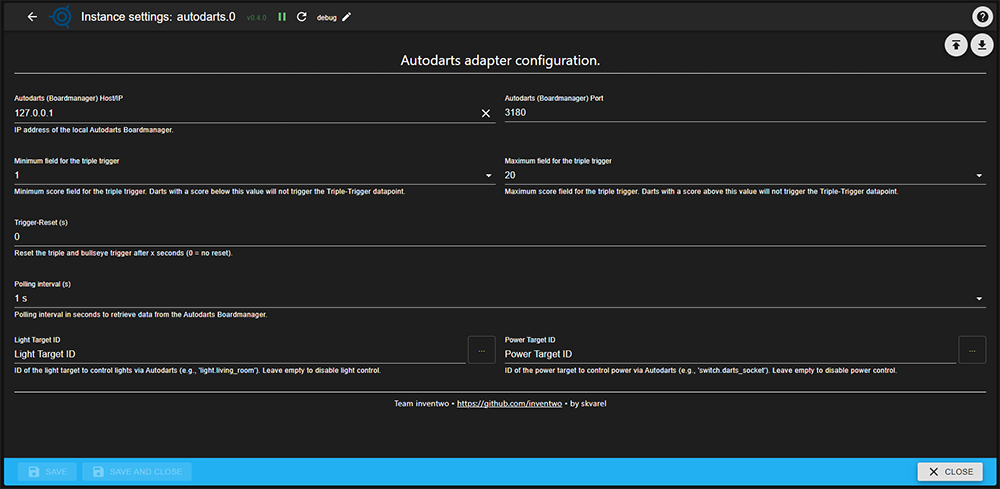
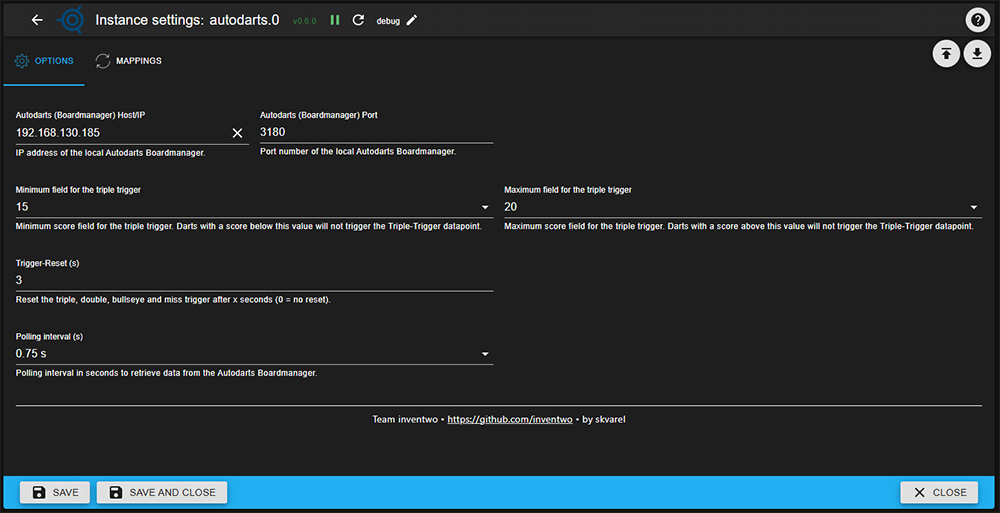
new config

diff --git a/README.md b/README.md
@@ -28,7 +28,7 @@ Connects to your local Autodarts Board Manager (via IP and port, e.g. `192.168.x
 - **`throw.isTriple`**: Boolean flag for triple hits within configurable segment range (default: 1–20)
 - **`throw.isDouble`**: Boolean flag for double hits only (all segments)
 - **`throw.isBullseye`**: Boolean flag for bullseye hits only
-- **`throw.isMiss`**: Boolean flag that is true when the dart does not hit any valid scoring segment (no score / miss only)
+- **`throw.isMiss`**: Boolean flag that is true when the dart does not hit any valid scoring segment (pure miss, no score)
 
 ### Board Status
 - **`status.trafficLightColor`**: HEX color of current board status
@@ -48,7 +48,7 @@ Connects to your local Autodarts Board Manager (via IP and port, e.g. `192.168.x
 
 ### Runtime Configuration
 - **`config.tripleMinScore/tripleMaxScore`**: Adjust triple trigger thresholds during runtime
-- **`config.triggerResetSec`**: Auto-reset time for triple/bullseye flags
+- **`config.triggerResetSec`**: Auto-reset time for triple/double/bullseye/miss flags
 
 ## What this adapter does NOT do
 
@@ -63,17 +63,42 @@ All data stays local on your ioBroker system.
 
 ![Configuration Screenshot](docs/config-screenshot.png)
 
-In the adapter settings, enter:
+The adapter settings are split into two tabs: **OPTIONS** and **MAPPINGS**.
 
-- **Board Manager IP**: IP address of your Autodarts Board Manager (e.g. `192.168.178.50`)
-- **Port**: Usually `3180` (default for Board Manager)
-- **Polling interval (s)**: How often to check for new throws (default: 1s)
+### Tab: OPTIONS
 
-### Optional: Hardware Control Mapping
-- **Light Target ID**: ioBroker state ID to sync with `system.hardware.light` (e.g., `0_userdata.0.LIGHT`)
-- **Power Target ID**: ioBroker state ID to sync with `system.hardware.power` (e.g., `0_userdata.0.POWER`)
+In **OPTIONS** you configure how the adapter connects to your local Autodarts Board Manager and how often it polls data:
 
-When configured, changes to either the adapter states or external states are synchronized bidirectionally.
+- **Board Manager IP**  
+  IP address of your Autodarts Board Manager (e.g. `192.168.178.50` or `127.0.0.1`).
+
+- **Port**  
+  TCP port of the Board Manager (usually `3180`).
+
+- **Triple trigger range**  
+  Two dropdowns to define the **minimum** and **maximum** field number (1–20) that should be considered for `throw.isTriple`.  
+  Triples outside this range will not trigger the flag.
+
+- **Trigger reset (s)**  
+  Time in seconds after which triple, double, bullseye and miss flags are reset.  
+  `0` means no automatic reset.
+
+- **Polling interval (s)**  
+  How often the adapter polls the Board Manager for new data (e.g. `0.5`, `1`, `2` seconds).
+
+### Tab: MAPPINGS
+
+In **MAPPINGS** you can link existing ioBroker states to the hardware related adapter states:
+
+- **Light Target ID**  
+  ioBroker state ID that is synchronized with `system.hardware.light`  
+  (e.g. `0_userdata.0.Autodarts.LIGHT` or a state of a smart light/LED ring).
+
+- **Power Target ID**  
+  ioBroker state ID that is synchronized with `system.hardware.power`  
+  (e.g. `0_userdata.0.Autodarts.POWER` or a state of a smart plug).
+
+When configured, changes on either side (adapter state or external state) are synchronized bidirectionally so you can both control the board from ioBroker and react on board events.
 
 
 ## Privacy & Data Handling
@@ -87,6 +112,12 @@ When configured, changes to either the adapter states or external states are syn
 <!--
 	### **WORK IN PROGRESS**
 -->
+### **WORK IN PROGRESS**
+- (skvarel) New: Settings page reworked to use two tabs (`OPTIONS` and `MAPPINGS`) for better clarity.
+- (skvarel) New: Mapping of ioBroker objects for board light and board power in the **MAPPINGS** tab.
+- (skvarel) Improved: Layout of the configuration page (field widths, spacing, texts) for a more symmetric and clean UI.
+- (skvarel) Improved: Updated option descriptions in the admin UI.
+
 ### 0.6.0 (2025-12-28)
 - (skvarel) Added: New throw.isMiss state to detect and trigger automations on missed darts (including auto-reset via triggerResetSec).
 - (skvarel) Added: New throw.isDouble state to detect and trigger automations on double segments (including auto-reset via triggerResetSec).
